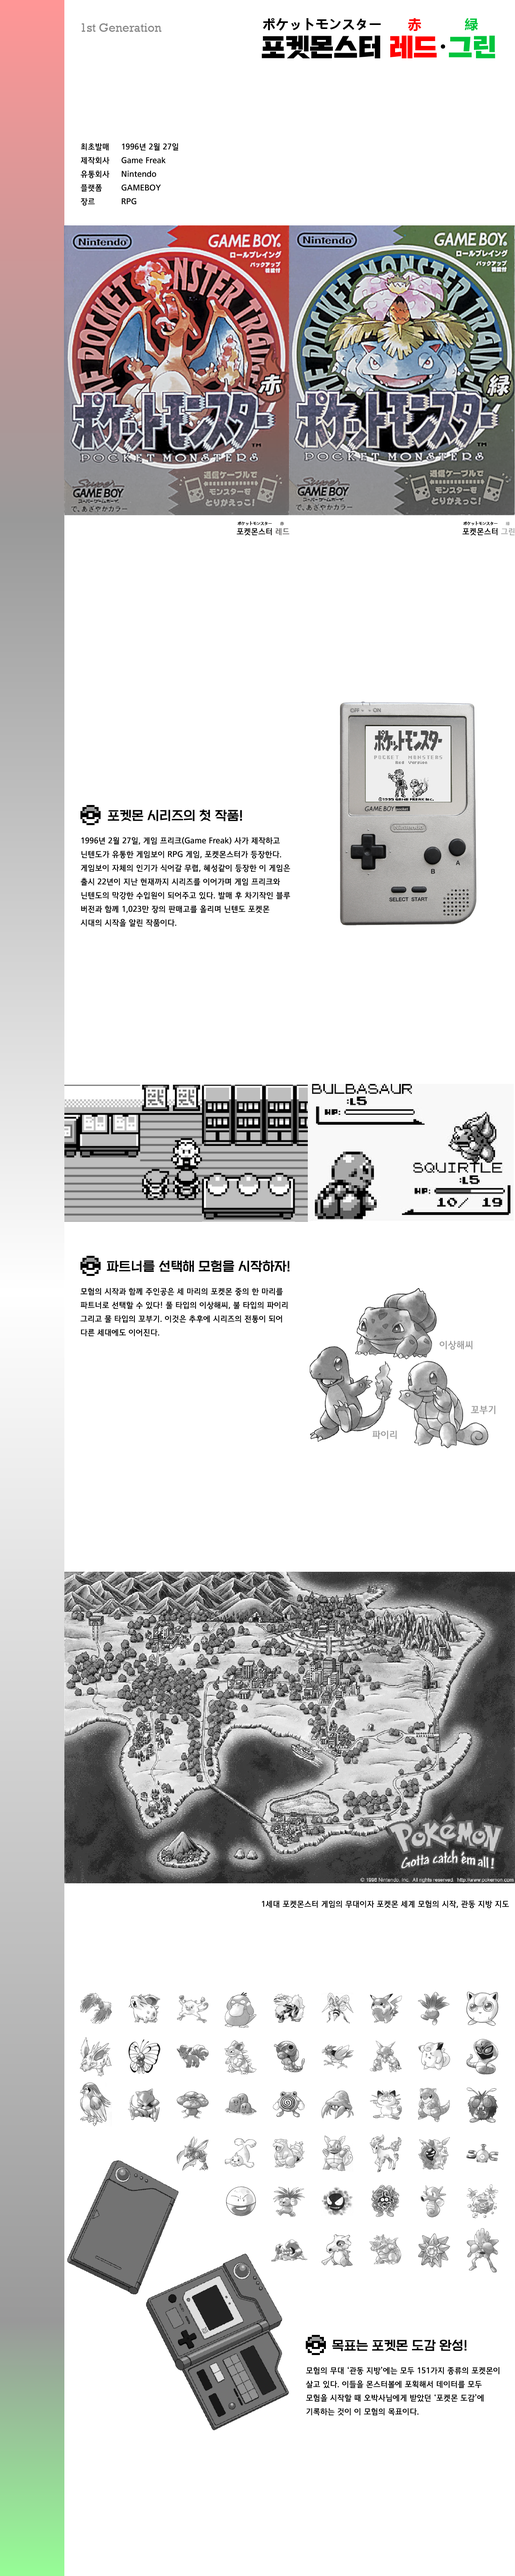
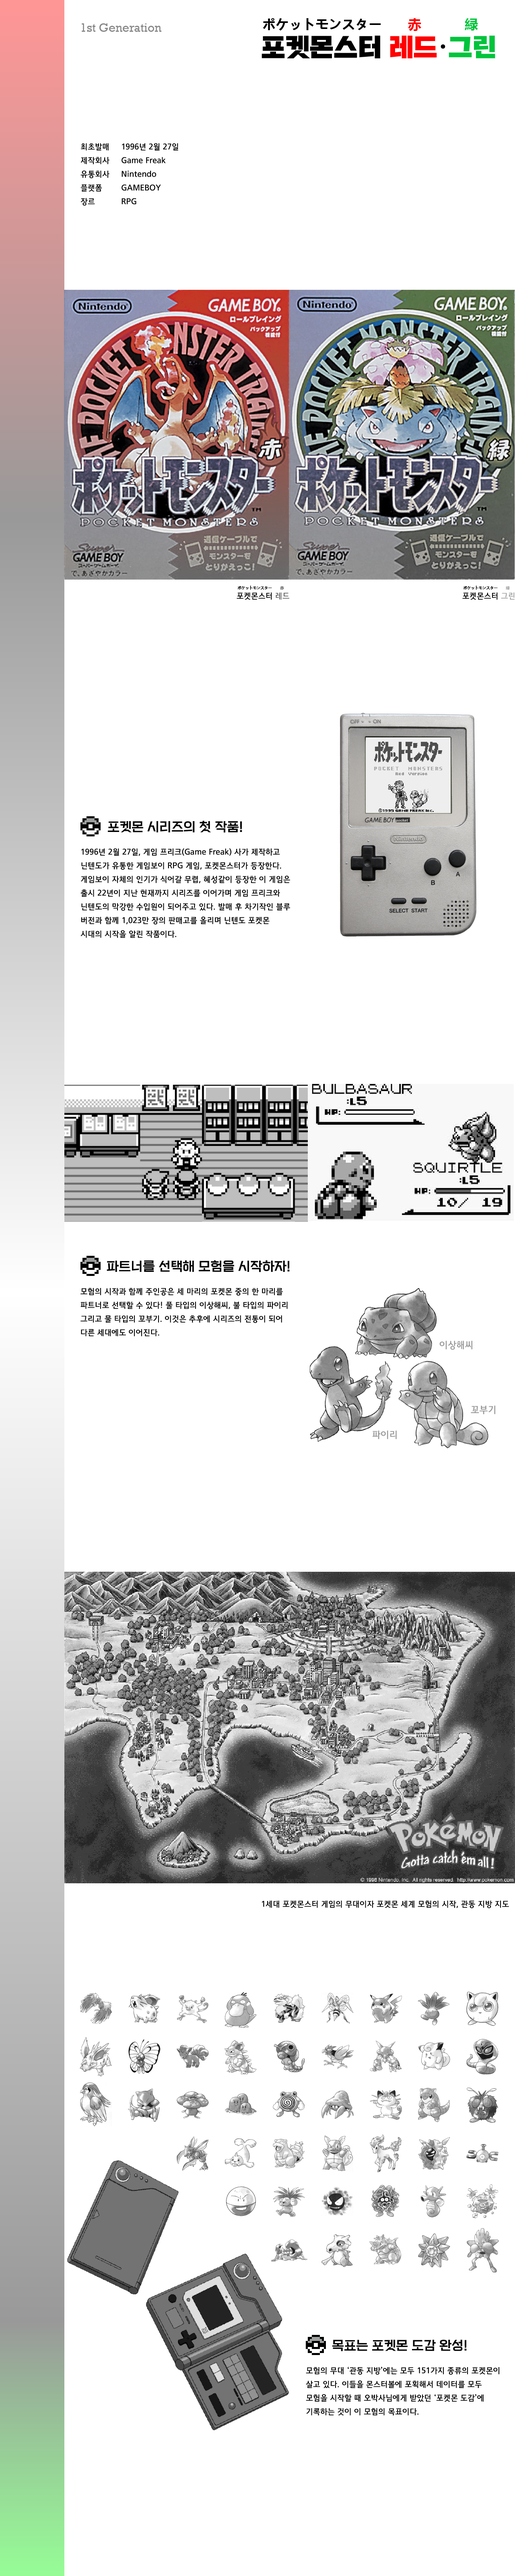
Add files via upload

Changed region(s): [[0.125, 0.0625, 1.0, 0.375], [0.1562, 0.3125, 0.5625, 0.375]]

diff --git a/style.css b/style.css
@@ -14,6 +14,8 @@
 		.black {margin:auto; background: gray; width:1280px; }
 		.black img{width:1280px;}
 
+		iframe{position:absolute; top:7603px; left:342px;}
+
 		#footer{width:1280px; height:80px; margin:auto; background: white;
 			line-height: 80px;}
 		#footer h1{font-family: 'Righteous', cursive; text-align: center; width:1280px; height:45px; margin:auto; background: white;

diff --git a/next3.html b/next3.html
@@ -35,7 +35,8 @@
 		</ul>
 	</nav>
 	<div class="black">
-		<img src="waiting.png">
+		<img src="Poke-3gen.png">
+		<iframe width="1000" height="564" src="https://www.youtube.com/embed/M7Ki5Fo1FKQ" frameborder="0" allow="autoplay; encrypted-media" allowfullscreen></iframe>
 	</div>
 	<footer>
 		<div id="footer">
